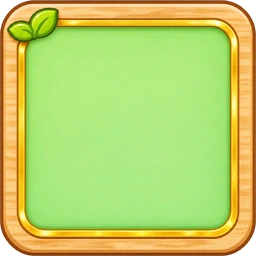
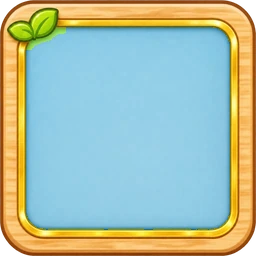
ナチュラル：クリア枠の背景を水色に変更（星を見やすく）
Claude-Session: https://claude.ai/code/session_01C8PtLCLrCZA399Ryqnq6qb

diff --git a/fit.js b/fit.js
@@ -204,7 +204,7 @@
   var st=document.createElement('style');
   st.textContent='body[data-vt=natural] .qg{gap:8px}'
    +'body[data-vt=natural] .qg button{aspect-ratio:1/1;border:0!important;border-radius:0!important;padding:0!important;gap:0!important;flex-direction:column;align-items:center;justify-content:center;color:#6b3f17!important;font-size:clamp(14px,4.6vw,19px)!important;font-weight:900;line-height:1.1;background:url('+b+'stg_frame.webp) center/100% 100% no-repeat!important;box-shadow:none}'
-   +'body[data-vt=natural] .qg button.ok{background-image:url('+b+'stg_frame_clear.webp)!important;color:#2f5a1f!important}'
+   +'body[data-vt=natural] .qg button.ok{background-image:url('+b+'stg_frame_clear.webp?v=2)!important;color:#1f3f5a!important}'
    +'body[data-vt=natural] .qg button.lk{opacity:.55;filter:grayscale(.6)}'
    +'body[data-vt=natural] .qg button.cur{box-shadow:0 0 0 3px #f0b429!important;border-radius:16px!important}'
    +'body[data-vt=natural] .qg button small{display:none;font-size:0;line-height:0;margin-top:1px}body[data-vt=natural] .qg button small:has(.gcs){display:block}'
@@ -218,7 +218,7 @@
   var st=document.createElement('style');
   st.textContent='body[data-vt=retro] .qg{gap:8px}'
    +'body[data-vt=retro] .qg button{aspect-ratio:1/1;border:0!important;border-radius:0!important;padding:0!important;gap:0!important;flex-direction:column;align-items:center;justify-content:center;color:#ffe7b0!important;text-shadow:0 1px 2px rgba(0,0,0,.7);font-size:clamp(14px,4.6vw,19px)!important;font-weight:900;line-height:1.1;background:url('+b+'stg_frame.webp) center/100% 100% no-repeat!important;box-shadow:none}'
-   +'body[data-vt=retro] .qg button.ok{background-image:url('+b+'stg_frame_clear.webp)!important;color:#fff!important}'
+   +'body[data-vt=retro] .qg button.ok{background-image:url('+b+'stg_frame_clear.webp?v=2)!important;color:#fff!important}'
    +'body[data-vt=retro] .qg button.lk{opacity:.55;filter:grayscale(.5)}'
    +'body[data-vt=retro] .qg button.cur{box-shadow:0 0 0 3px #fff3a0,0 0 10px #ffd36b!important;border-radius:16px!important}'
    +'body[data-vt=retro] .qg button small{display:none;font-size:0;line-height:0;margin-top:1px}body[data-vt=retro] .qg button small:has(.gcs){display:block}'
@@ -232,7 +232,7 @@
   var st=document.createElement('style');
   st.textContent='body[data-vt=neon] .qg{gap:8px}'
    +'body[data-vt=neon] .qg button{aspect-ratio:1/1;border:0!important;border-radius:0!important;padding:0!important;gap:0!important;flex-direction:column;align-items:center;justify-content:center;color:#bff8ff!important;text-shadow:0 0 6px #19e6ff;font-size:clamp(14px,4.6vw,19px)!important;font-weight:900;line-height:1.1;background:url('+b+'stg_frame.webp) center/100% 100% no-repeat!important;box-shadow:none}'
-   +'body[data-vt=neon] .qg button.ok{background-image:url('+b+'stg_frame_clear.webp)!important;color:#fff!important}'
+   +'body[data-vt=neon] .qg button.ok{background-image:url('+b+'stg_frame_clear.webp?v=2)!important;color:#fff!important}'
    +'body[data-vt=neon] .qg button.lk{opacity:.55;filter:grayscale(.5)}'
    +'body[data-vt=neon] .qg button.cur{box-shadow:0 0 0 3px #fff,0 0 12px #19e6ff!important;border-radius:16px!important}'
    +'body[data-vt=neon] .qg button small{display:none;font-size:0;line-height:0;margin-top:1px}body[data-vt=neon] .qg button small:has(.gcs){display:block}'
@@ -243,12 +243,12 @@
 /* ステージ選択タイル（#mStage .stb：ペグ・ハノイ・脱出・リング・スライド 共通） */
 (function(){
   var r=new URL('img/',document.currentScript.src).href;
-  var S={natural:{c:'#6b3f17',ok:'#2f5a1f',sh:'none',cur:'0 0 0 3px #f0b429',su:'n'},
+  var S={natural:{c:'#6b3f17',ok:'#1f3f5a',sh:'none',cur:'0 0 0 3px #f0b429',su:'n'},
          retro:{c:'#ffe7b0',ok:'#fff',sh:'0 1px 2px rgba(0,0,0,.7)',cur:'0 0 0 3px #fff3a0,0 0 10px #ffd36b',su:'r'},
          neon:{c:'#bff8ff',ok:'#fff',sh:'0 0 6px #19e6ff',cur:'0 0 0 3px #fff,0 0 12px #19e6ff',su:'x'}};
   var css='';
   Object.keys(S).forEach(function(k){
-    var s=S[k],p='body[data-vt='+k+'] #mStage .stb',f=r+k+'/stg_frame.webp',fc=r+k+'/stg_frame_clear.webp';
+    var s=S[k],p='body[data-vt='+k+'] #mStage .stb',f=r+k+'/stg_frame.webp',fc=r+k+'/stg_frame_clear.webp?v=2';
     css+=p+'{aspect-ratio:1/1;border:0!important;border-radius:0!important;box-shadow:none;padding:6% 5%!important;gap:1px!important;justify-content:center;opacity:1;overflow:visible;isolation:auto;color:'+s.c+'!important;text-shadow:'+s.sh+';background:url('+f+') center/100% 100% no-repeat!important}'
      +p+':has(.sr i.on){background-image:url('+fc+')!important;color:'+s.ok+'!important}'
      +p+'.lock,'+p+'.lk{opacity:.55;filter:grayscale(.5)}'

diff --git a/sw.js b/sw.js
@@ -1,5 +1,5 @@
 // オフライン対応（ページは最新を優先、画像などはキャッシュを優先）
-const V='gc-v308';
+const V='gc-v309';
 const CORE=['./','index.html','coins.js','backup.js','manifest.webmanifest','icons/icon-192.png',
  ...['reversi','shogi','wanko','gomoku','memory','escape','rings','peg','slide','hanoi'].map(g=>g+'/')];
 self.addEventListener('install',e=>{e.waitUntil(caches.open(V).then(c=>c.addAll(CORE)).then(()=>self.skipWaiting()))});
